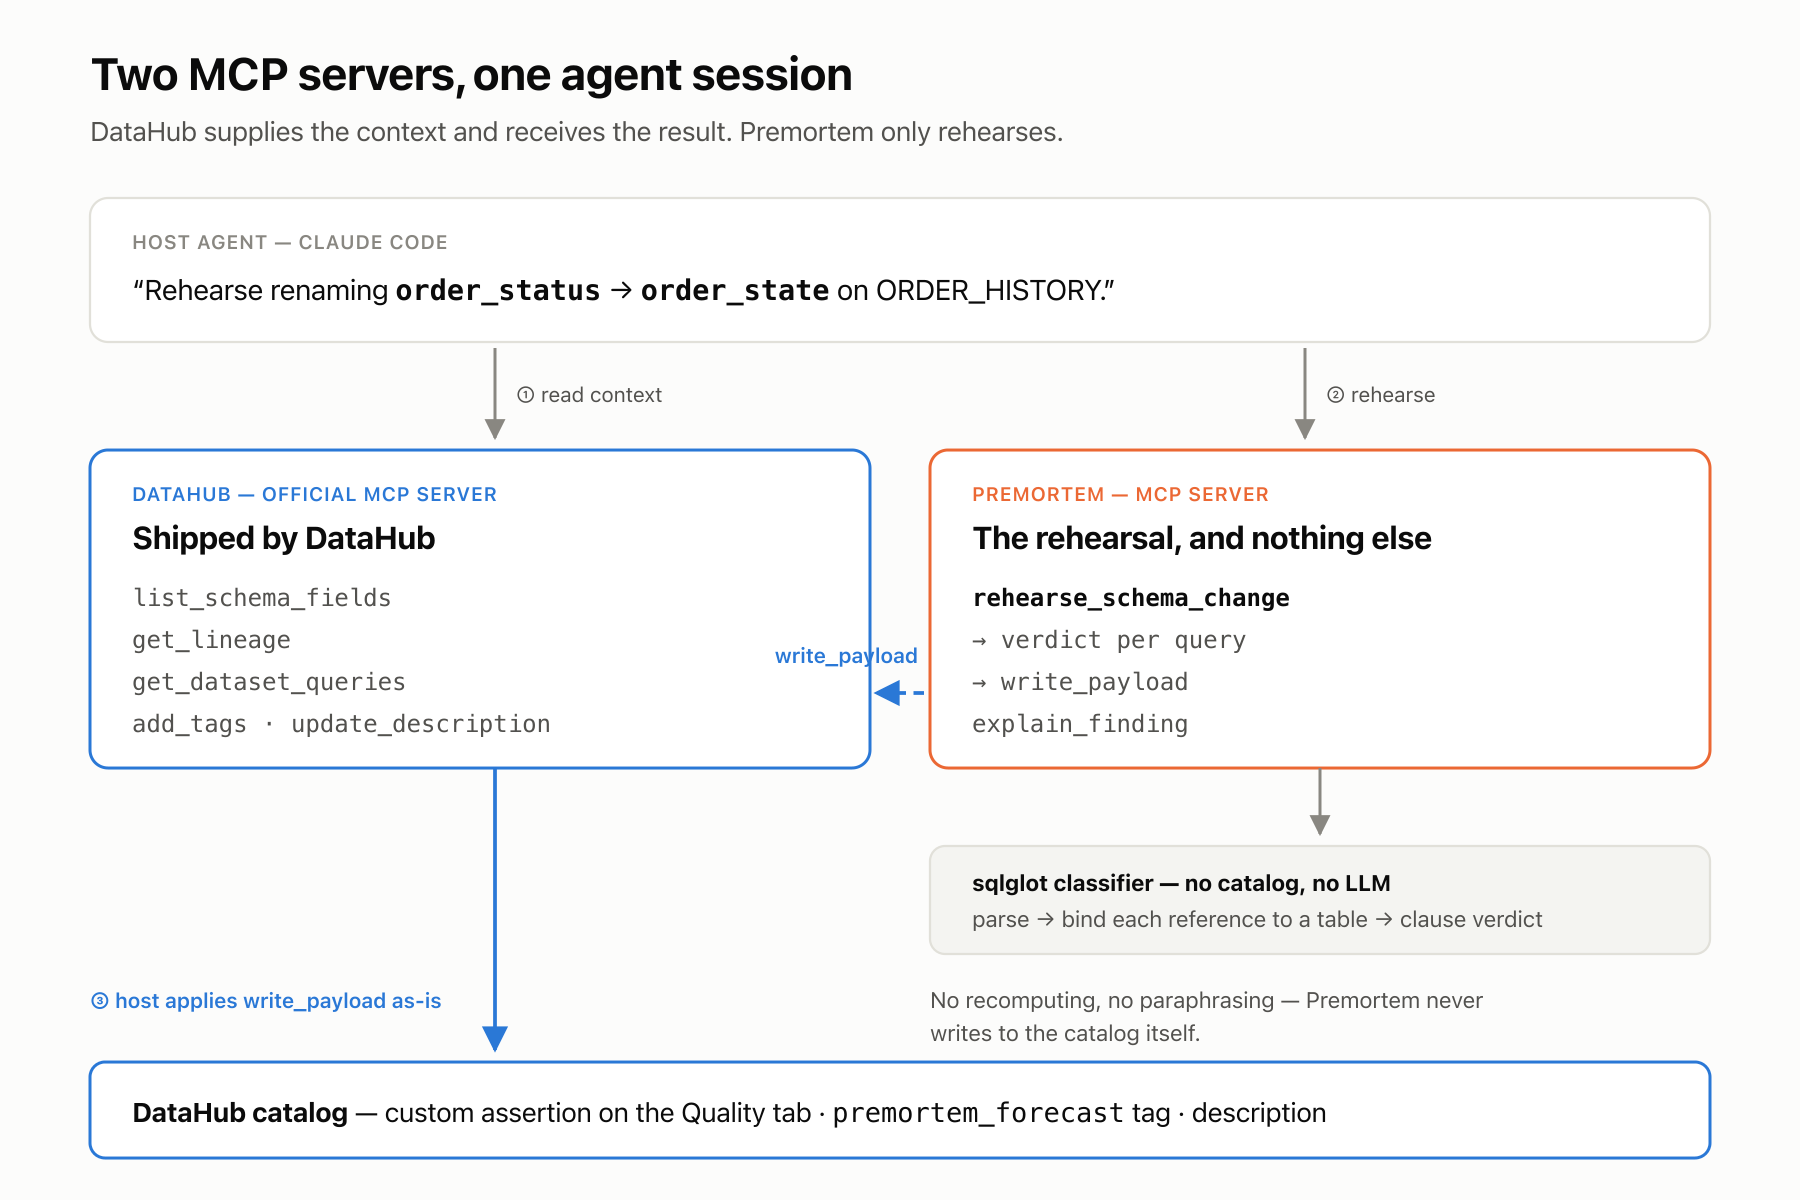
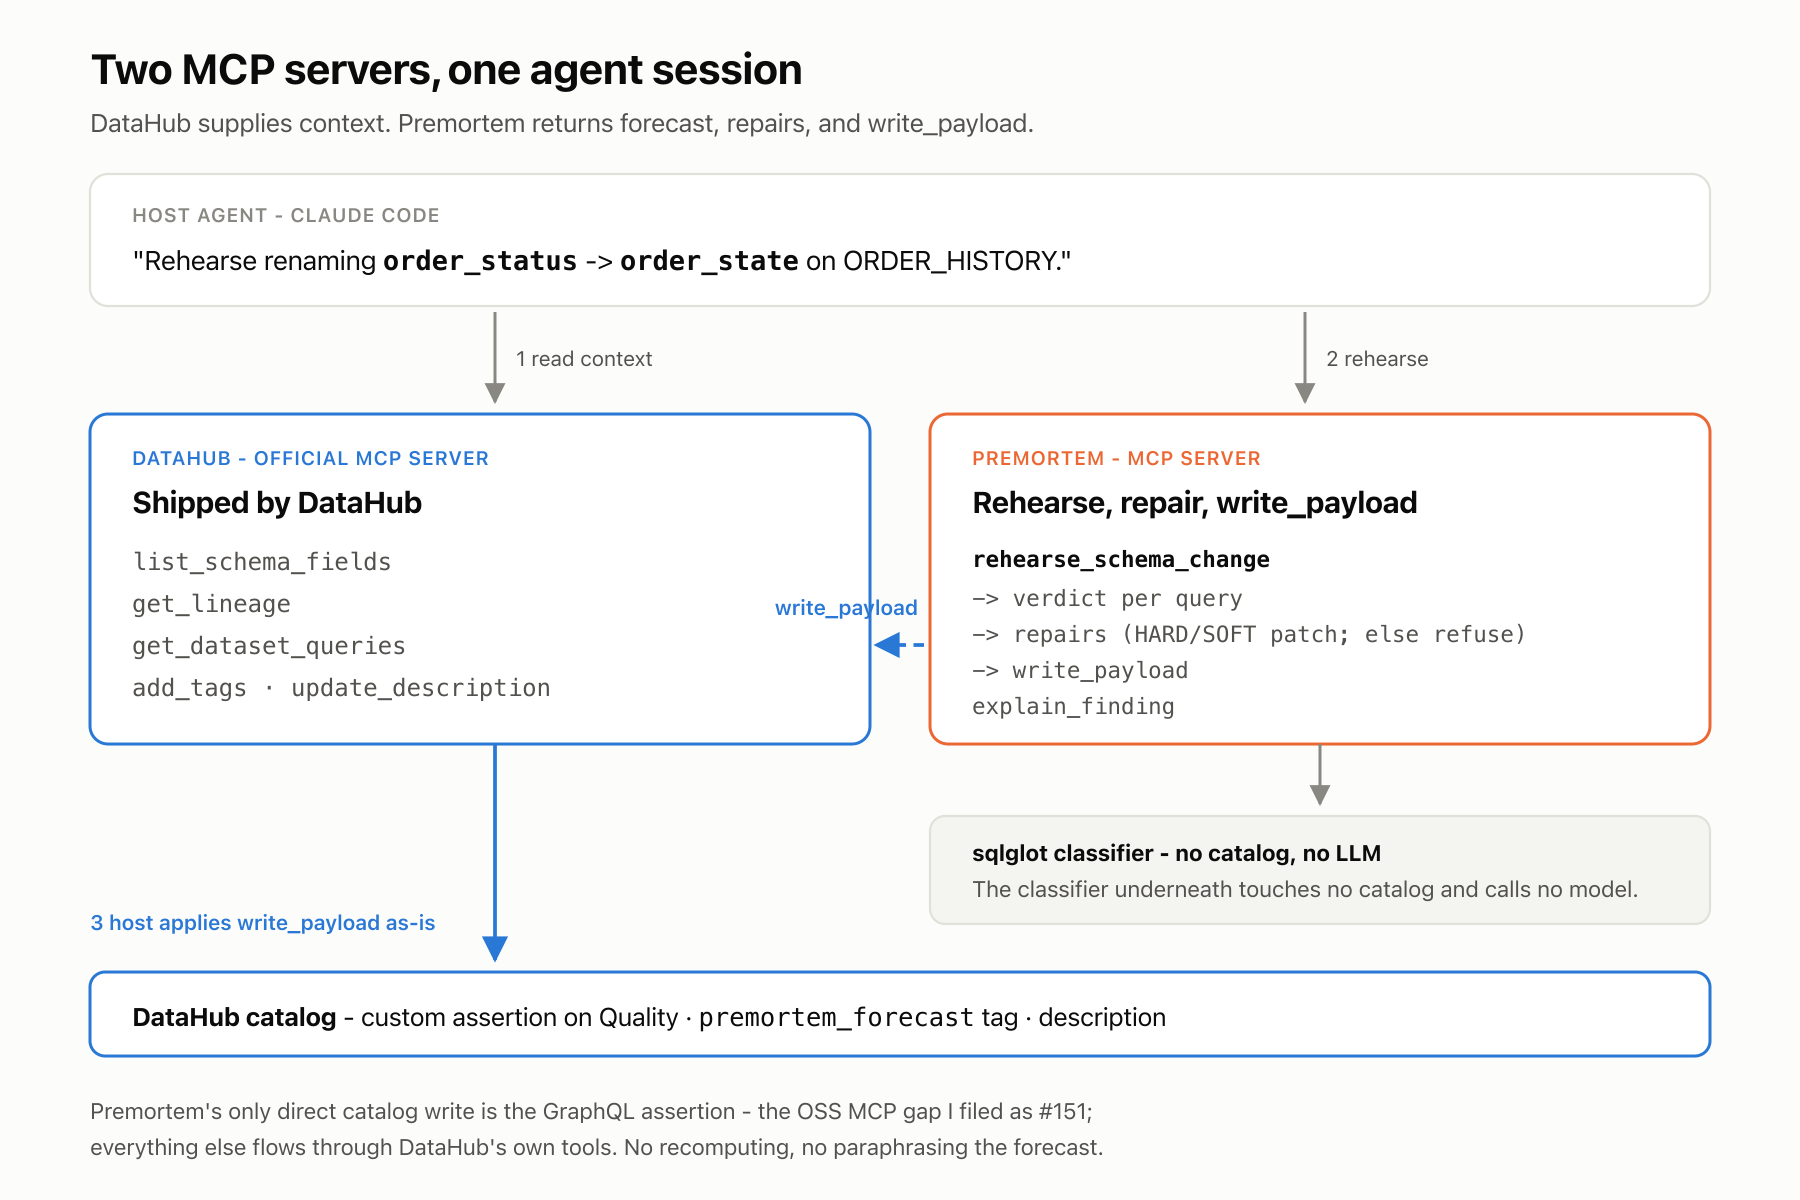
Propagate four-verb story across Pages, README, and diagrams.
Fix product-workflow glyphs and drop gallery scaffolding from the image;
correct dual-MCP honesty (#151 GraphQL assertion + repairs); extend Pages
hero/composition/links with repair+gate; add README repair section; clarify
MCP owners ride in forecast markdown; note RESULTS re-verify after Tier 1.

diff --git a/docs/index.html b/docs/index.html
@@ -456,8 +456,9 @@
       <p class="lede">
         A schema-change rehearsal agent for DataHub. Starting from Impact Analysis,
         it reads warehouse SQL from query history and forecasts how each consumer
-        breaks — HARD, SOFT, UNKNOWN, or CLEARED — then writes the forecast back
-        into the catalog.
+        breaks — HARD, SOFT, UNKNOWN, or CLEARED — then <strong>repairs</strong> what
+        it can, <strong>gates</strong> the PR, <strong>notifies</strong> owners, and
+        writes the forecast back into the catalog.
       </p>
       <div class="stats" role="group" aria-label="Frozen eval headline metrics">
         <div class="stat">
@@ -493,7 +494,10 @@ python eval/run_eval.py</code></pre>
       <figure>
         <img src="media/customer-journey.png" width="1800" height="1200" alt="Customer journey: PR trigger, Impact Analysis today, ask the agent, per-query forecast, write-back to the Quality tab." />
         <figcaption>
-          Five steps from trigger to write-back. Live path: bring-your-own DataHub with
+          Five steps from trigger to write-back (persona path). After the forecast:
+          repair · gate · notify — see
+          <a href="https://github.com/prasadt1/premortem-datahub/blob/main/docs/media/product-workflow.png">product-workflow</a>
+          and the numbers section below. Live path: bring-your-own DataHub with
           <strong>query history</strong> on the subject (stock Quickstart needs seeding —
           that is why the demo seeder exists). Measurement path: frozen eval on this page’s
           reproduce block. CLEARED is the named subset of UNAFFECTED.
@@ -712,19 +716,22 @@ WHERE <span class="hl">s</span>.order_status = 'SHIPPED'</code></pre>
         One agent session registers two MCP servers. Live reads use the
         <strong>DataHub Agent Context Kit</strong> (schema, lineage, query history).
         Premortem’s server runs <code>rehearse_schema_change</code> and returns a
-        forecast plus <code>write_payload</code>. The host applies that payload as-is:
+        forecast, <code>repairs[]</code> (HARD/SOFT patches; else refuse), and
+        <code>write_payload</code>. Owners (who to warn) ride in the forecast markdown.
+        The host applies the payload as-is:
         <strong>tag + description via DataHub MCP mutations; the custom assertion
-        (<code>platform=premortem</code>) via GraphQL</strong> — OSS MCP Data Quality
-        tools are DISABLED
-        (<a href="https://github.com/acryldata/mcp-server-datahub/issues/151">#151</a>).
+        (<code>platform=premortem</code>) via GraphQL</strong> — Premortem’s only direct
+        catalog write is that assertion (OSS MCP Data Quality tools are DISABLED —
+        <a href="https://github.com/acryldata/mcp-server-datahub/issues/151">#151</a>).
         Result on the Quality tab: assertion + <code>premortem_forecast</code> tag +
         description — no recomputing.
       </p>
       <figure>
-        <img src="media/dual-mcp-flow.png" width="1800" height="1200" alt="One agent session with two MCP servers: DataHub supplies schema, lineage and query history and receives the write-back; Premortem runs the rehearsal and returns a write payload." />
+        <img src="media/dual-mcp-flow.png" width="1800" height="1200" alt="One agent session with two MCP servers: DataHub supplies schema, lineage and query history; Premortem returns forecast, repairs, and write_payload; assertion lands via GraphQL (#151)." />
         <figcaption>
-          DataHub supplies the context and receives the result. Premortem only rehearses —
-          the classifier underneath touches no catalog and calls no model.
+          DataHub supplies the context. The classifier underneath touches no catalog and
+          calls no model. Premortem’s only direct catalog write is the GraphQL assertion
+          (#151); everything else flows through DataHub’s own tools.
         </figcaption>
       </figure>
     </section>
@@ -757,6 +764,16 @@ WHERE <span class="hl">s</span>.order_status = 'SHIPPED'</code></pre>
         <strong>Named C miss:</strong> q39 (<code>hard</code> → <code>soft</code>) in the
         subquery stratum — documented limitation, not tuned against the frozen labels.
         Browse it in the <a href="eval-explorer.html">eval explorer</a>.
+      </p>
+      <p>
+        <strong>Repair round-trip</strong> (does not touch the freeze):
+        <code>python eval/run_repair_roundtrip.py</code> — <strong>22/22</strong> eligible
+        patches pass; <strong>18 refused</strong> (CLEARED / UNKNOWN / SELECT * /
+        ambiguous / no subject bind). Samples:
+        <a href="https://github.com/prasadt1/premortem-datahub/tree/main/examples/patches">examples/patches/</a>.
+        Merge gate:
+        <a href="https://github.com/prasadt1/premortem-datahub/blob/main/examples/ci/premortem-gate.yml"><code>premortem gate</code></a>
+        (default <code>--fail-on hard,unknown</code>).
       </p>
     </section>
 
@@ -844,6 +861,8 @@ WHERE <span class="hl">s</span>.order_status = 'SHIPPED'</code></pre>
         <li><a href="eval-explorer.html">Frozen eval explorer</a> — all 40 queries, gold vs binder verdict</li>
         <li><a href="real-world-run.html">Real-world run</a> — mozilla/bigquery-etl observables</li>
         <li><a href="https://github.com/prasadt1/premortem-datahub/blob/main/eval/RESULTS.md">eval/RESULTS.md</a></li>
+        <li><a href="https://github.com/prasadt1/premortem-datahub/tree/main/examples/patches">examples/patches/</a> — repair samples (22/22 round-trip)</li>
+        <li><a href="https://github.com/prasadt1/premortem-datahub/blob/main/examples/ci/premortem-gate.yml">examples/ci/premortem-gate.yml</a> — merge gate</li>
         <li><a href="https://github.com/prasadt1/premortem-datahub/tree/main/examples">examples/</a></li>
         <li>Video demo: <em>to be added</em></li>
       </ul>

diff --git a/README.md b/README.md
@@ -40,6 +40,19 @@ premortem gate \
 
 Exit **0** when clean; **1** when any finding meets `--fail-on` (default `hard,unknown` so unparseable SQL cannot silent-pass); **2** if `--fail-on hard` alone would green-light unparseable input. Worked workflow: [`examples/ci/premortem-gate.yml`](examples/ci/premortem-gate.yml). Live: add `--live` (and drop `--queries-dir`) against your GMS.
 
+## Repair plan
+
+Same binder decisions drive SQL patches. Subject-bound HARD/SOFT → emit a rename diff; CLEARED, UNKNOWN, `SELECT *`, and ambiguous binding → **refuse** (no guessing on production SQL).
+
+```bash
+premortem --queries-dir eval/corpus --rename order_status:order_state \
+  --subject-table order_history --tables-json eval/schema.json \
+  --emit-patches /tmp/patches
+python eval/run_repair_roundtrip.py   # 22/22 eligible; 18 refused
+```
+
+Sample diffs: [`examples/patches/`](examples/patches/). Live / MCP: `repairs[]` rides with the forecast; owners (who to warn) are listed in the forecast markdown from catalog `get_owners` — missing ownership is an honest empty list.
+
 ## What you get
 
 | Output | Meaning (remediation blast radius) |

diff --git a/eval/RESULTS.md b/eval/RESULTS.md
@@ -5,7 +5,9 @@ Harness is an adapter; this file records measurement against that freeze.
 **Do not edit `eval/labels.json`.** Named limitations stay here.
 
 Measured on binder commit `94949ba` (+ catalog facade thereafter does not change
-classifier numbers). Re-run: `python eval/run_eval.py`.
+classifier numbers). Headline metrics **re-verified unchanged** after Tier-1
+refuse-instead-of-guess (no corpus query uses the newly refused shapes).
+Re-run: `python eval/run_eval.py`.
 
 **Discipline:** the binder was developed against `tests/` fixtures; the frozen forty
 queries were never tuning targets. Measurement only: `python eval/run_eval.py`.
